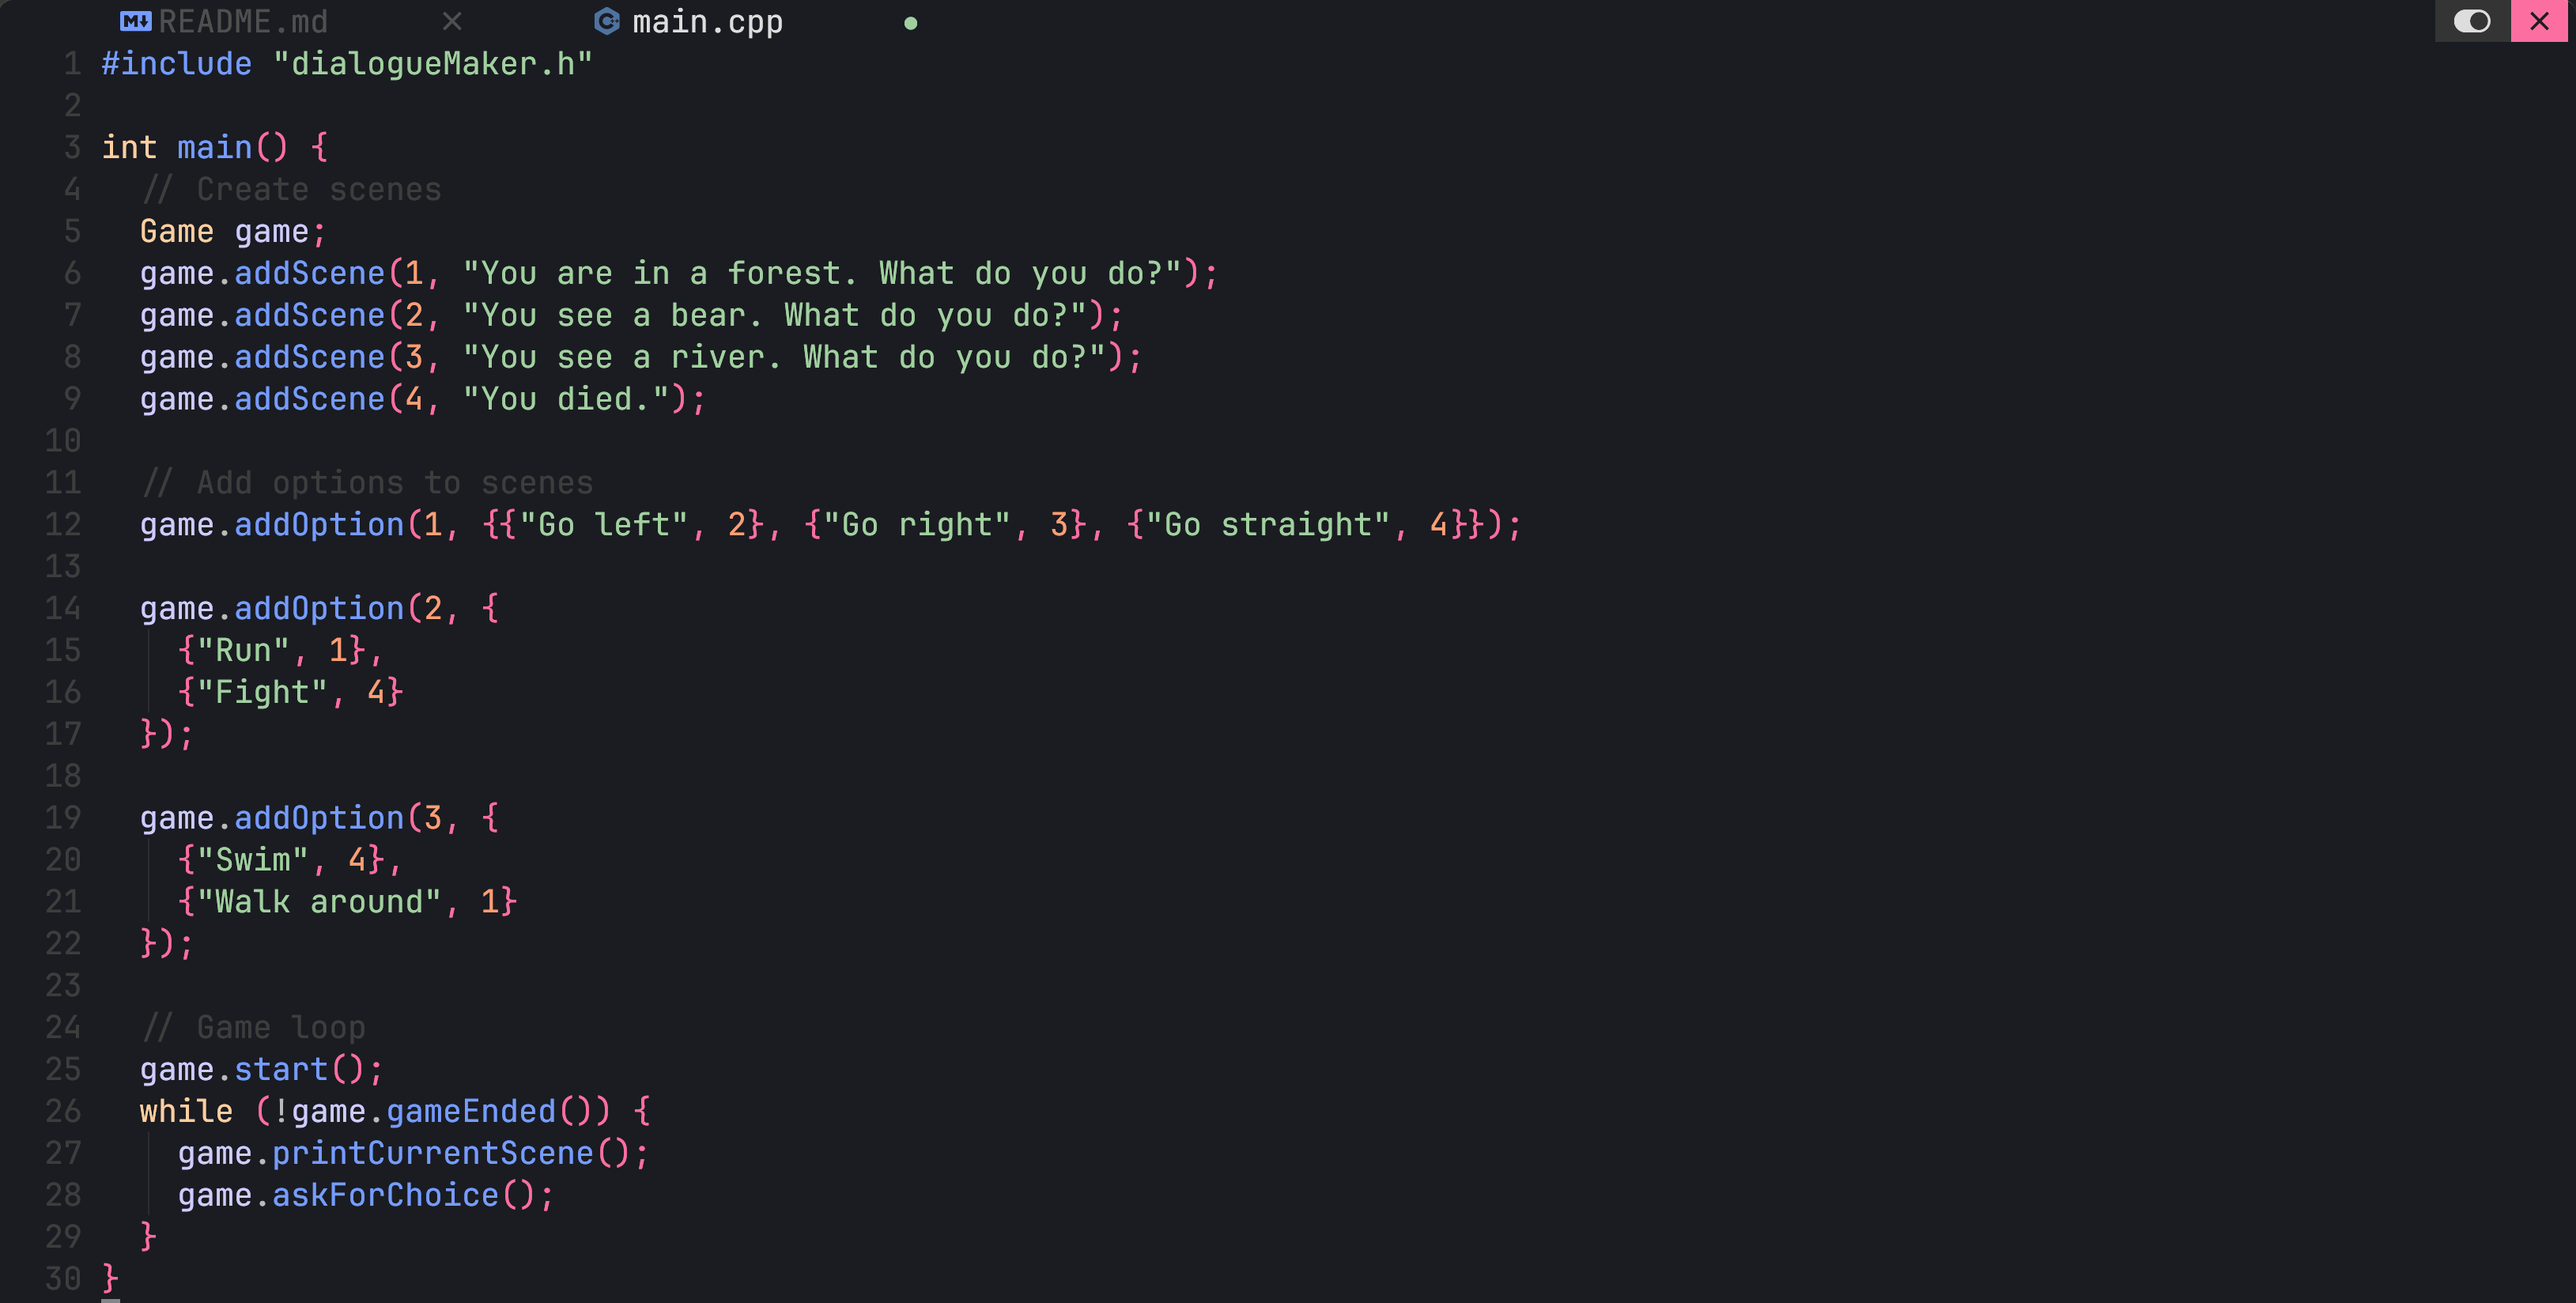
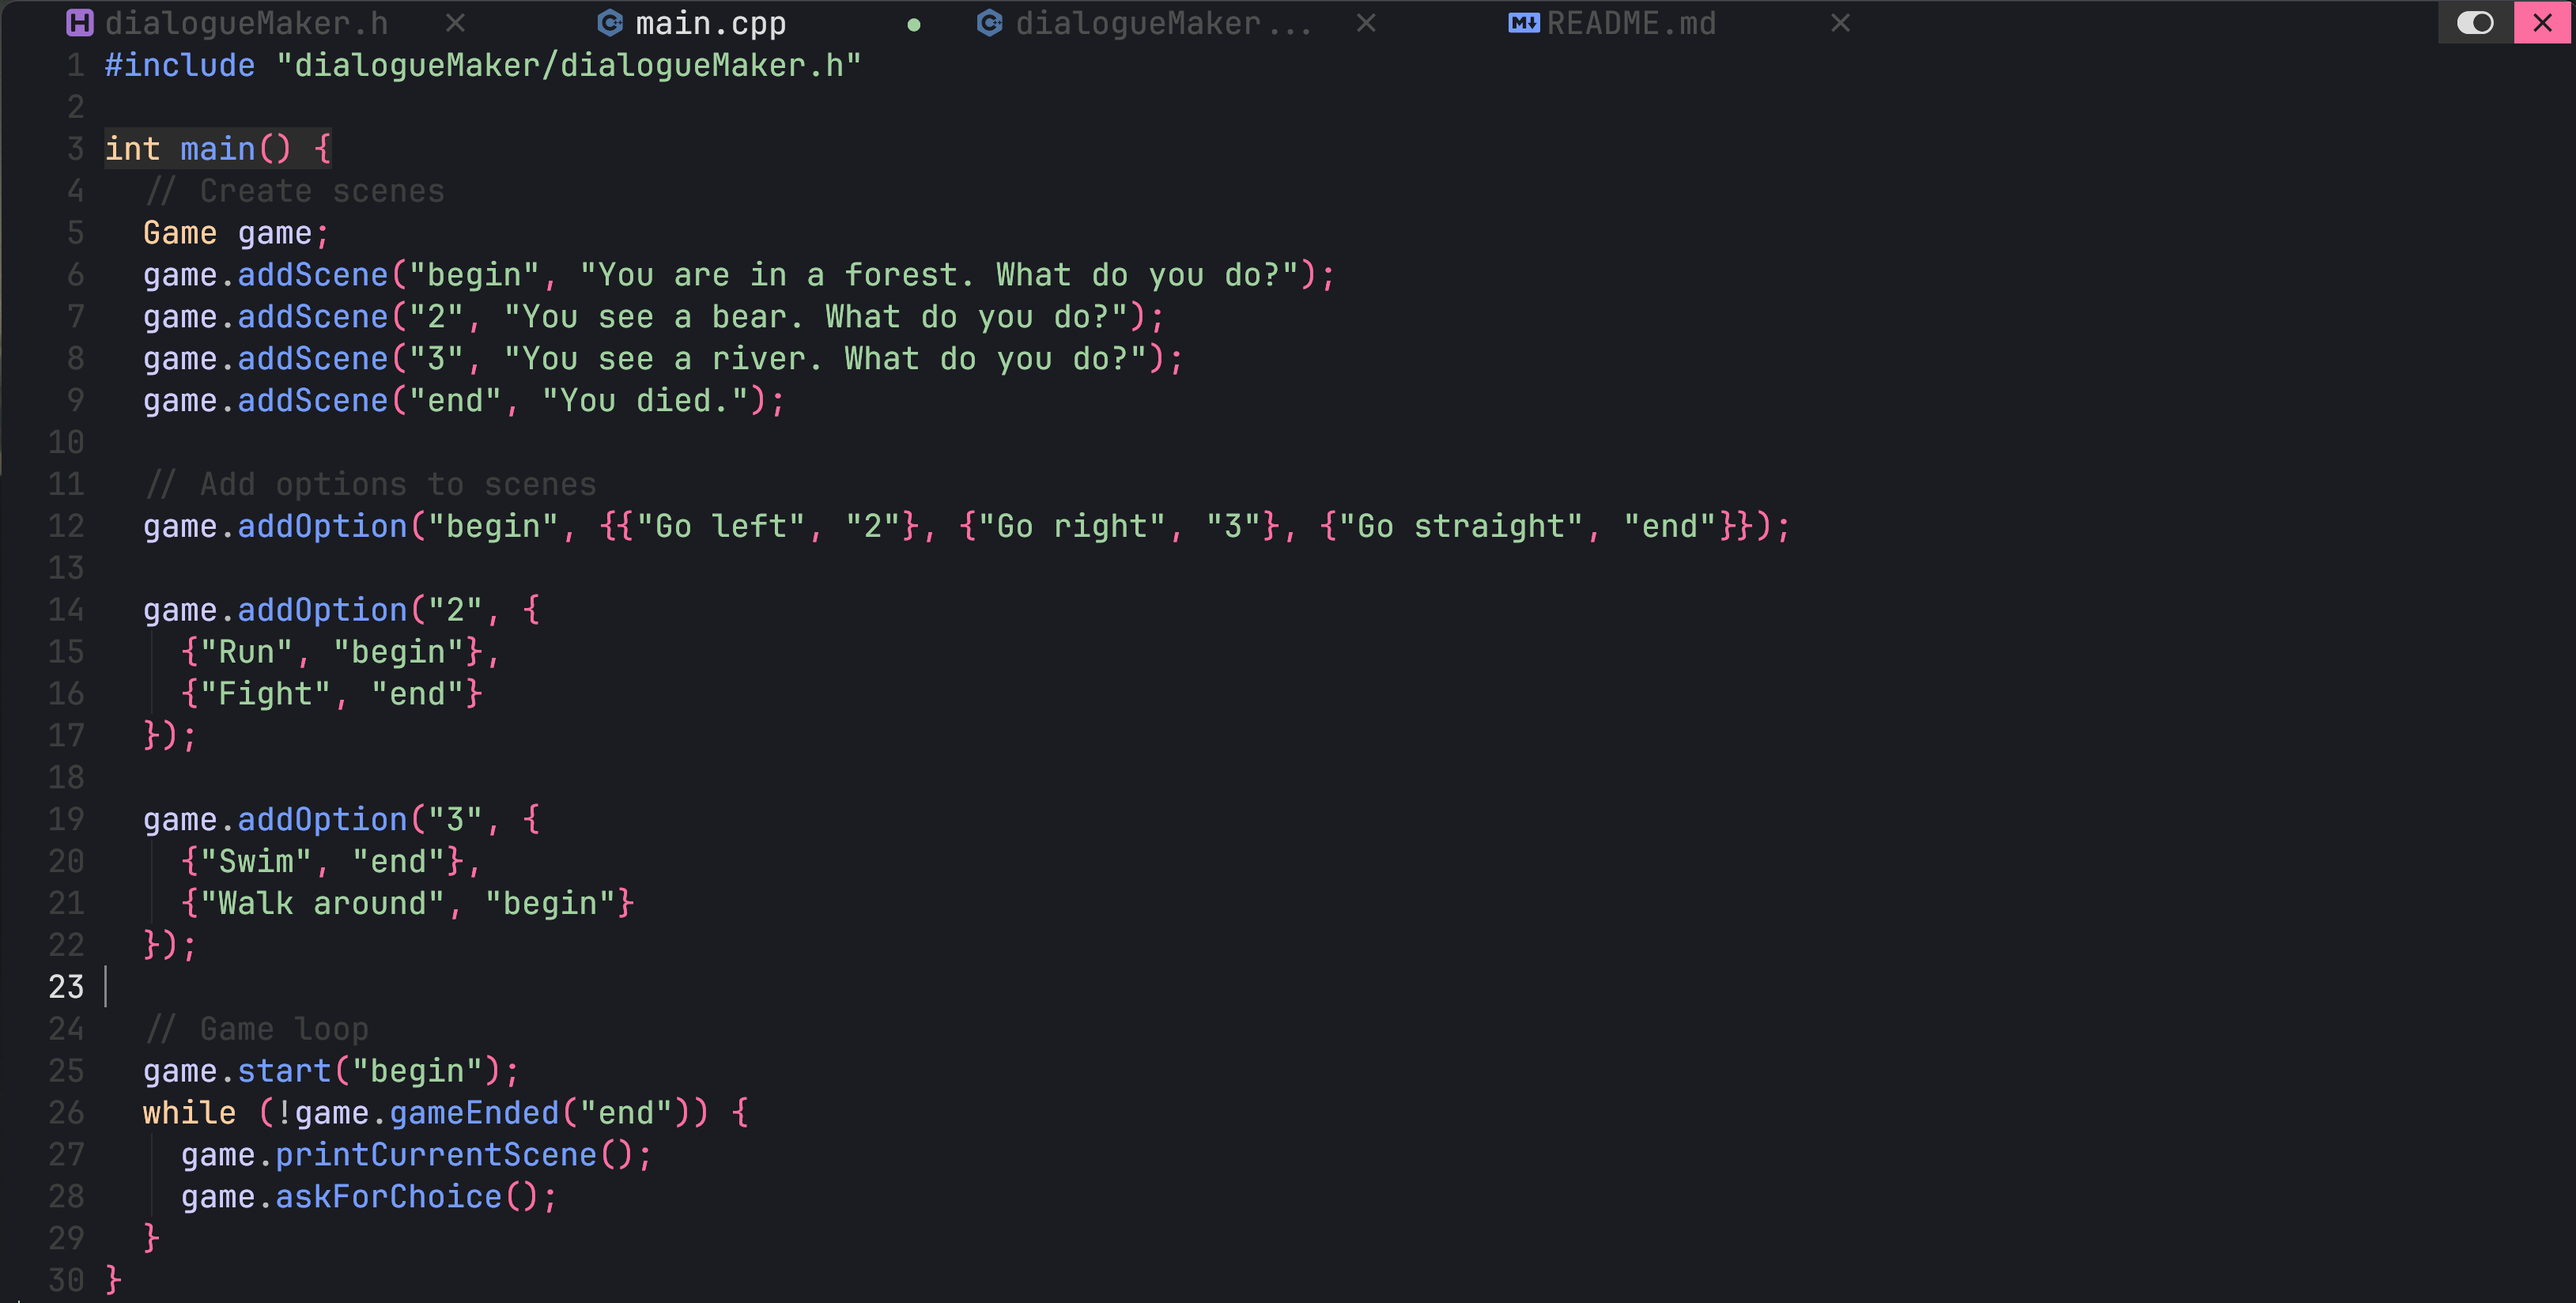
Change image and edit README

diff --git a/dialogueMaker/README.md b/dialogueMaker/README.md
@@ -4,12 +4,10 @@
 Coming Soon
 
 ## How to use
-1. Download `src` folder
-2. Move into `src` folder
-3. Add scenes and choices in `main.cpp`
-4. Compile with this command
+1. Add scenes and choices in `main.cpp`
+2. Compile with this command
 ```
-g++ -Wall main.cpp dialogueMaker.cpp -o main -std=c++11
+g++ -Wall main.cpp dialogueMaker/dialogueMaker.cpp -o main -std=c++11
 ./main
 ```
 ## Example
